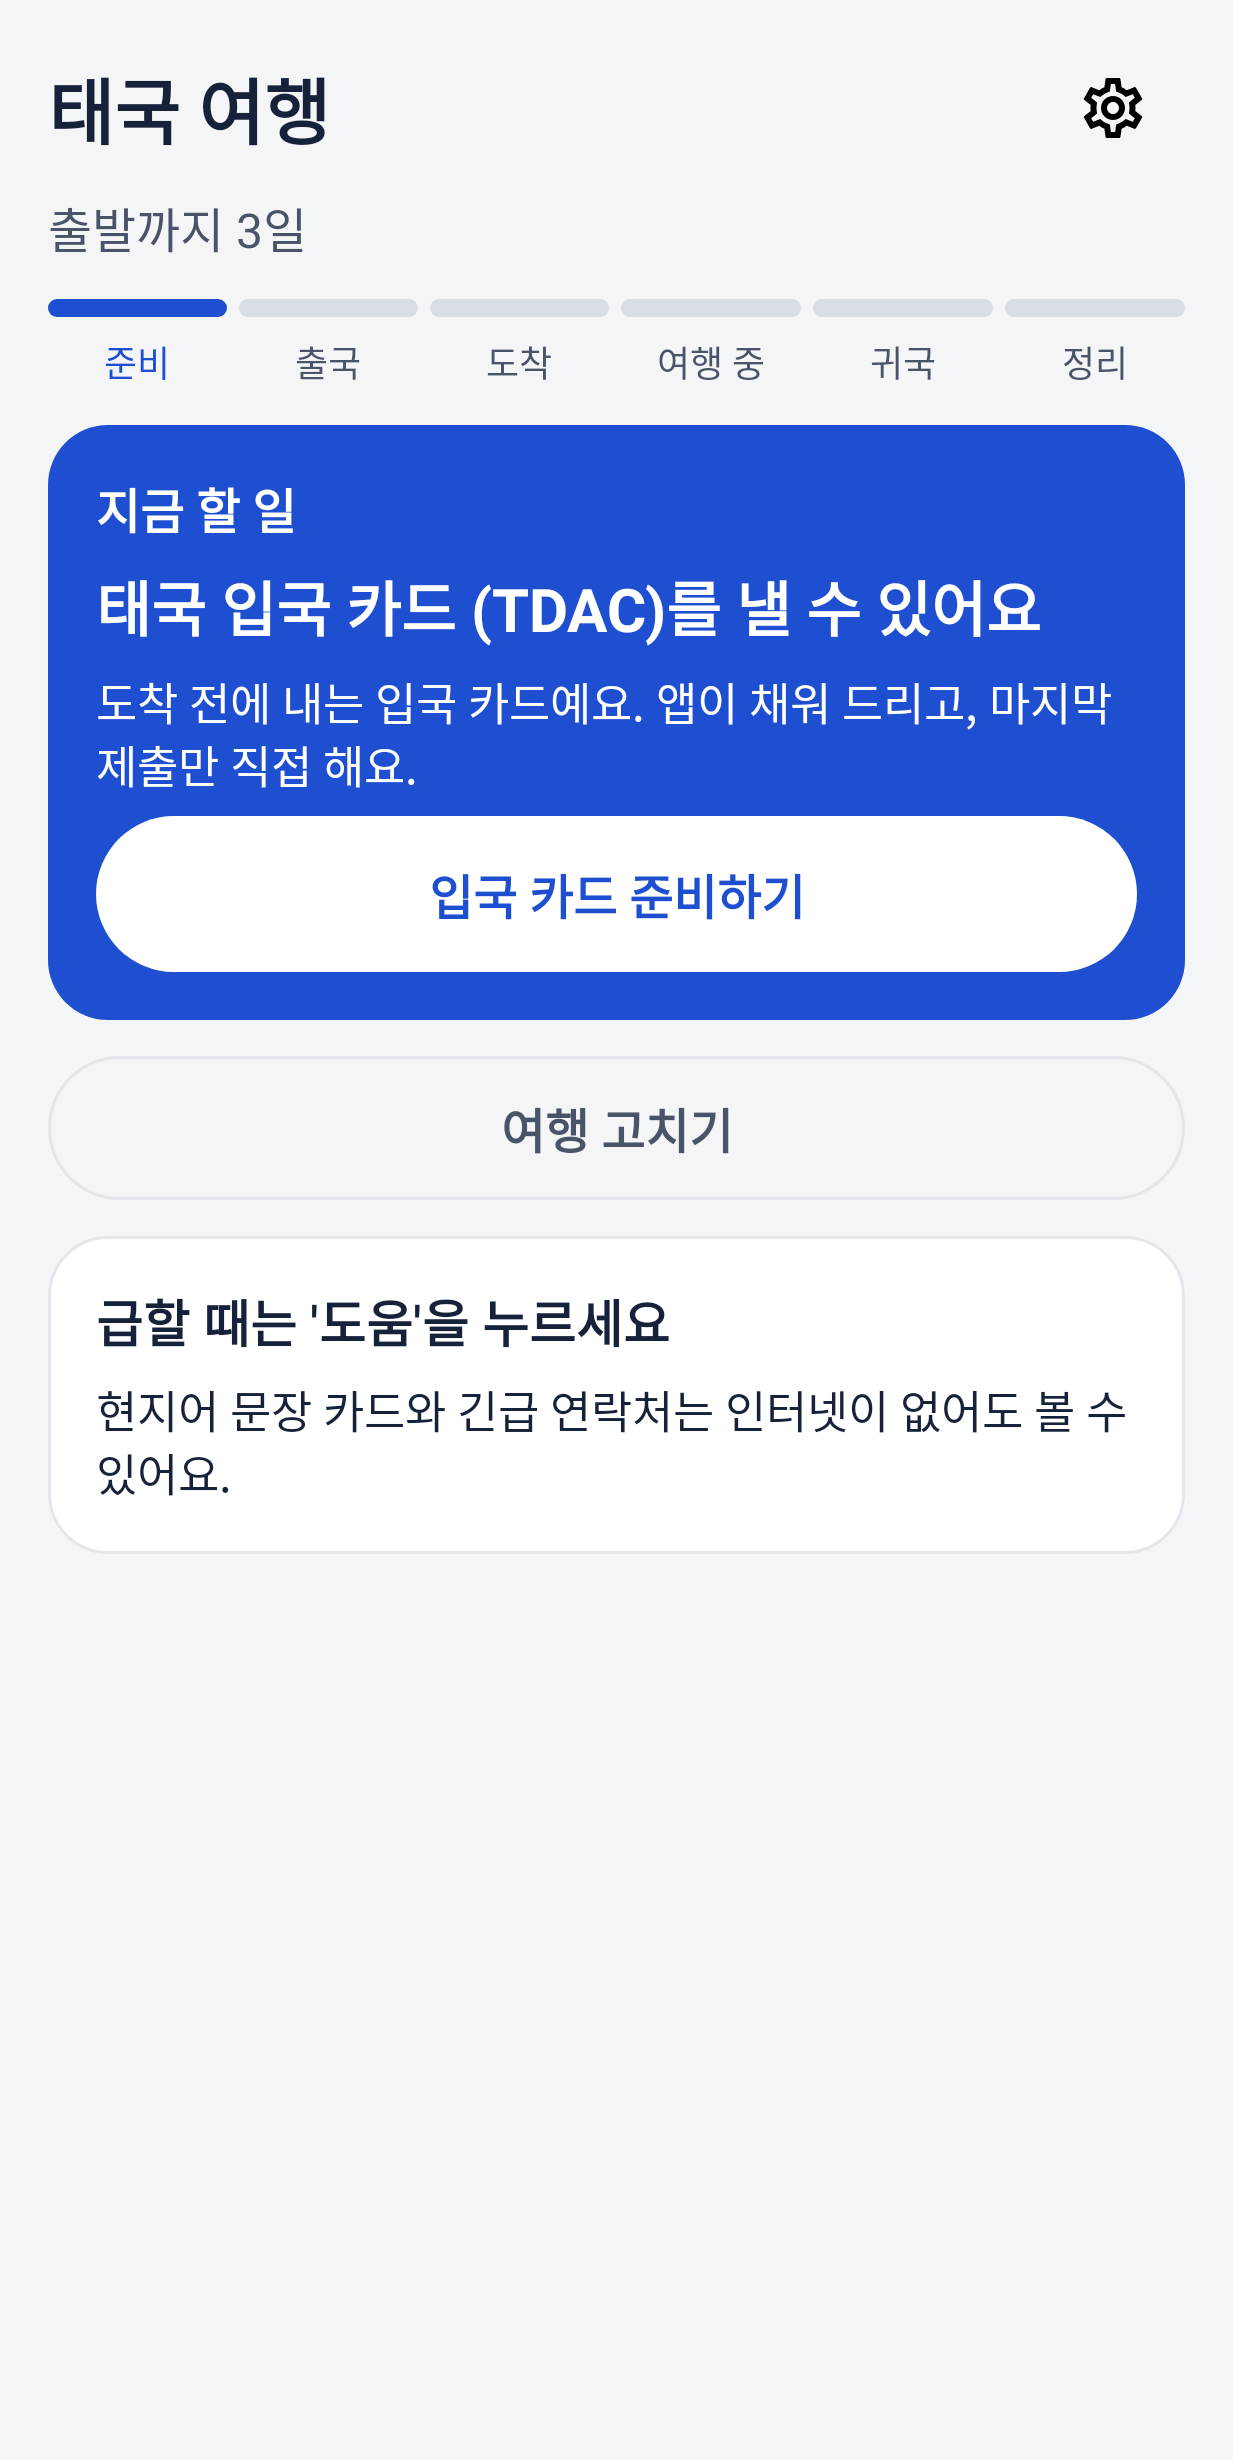
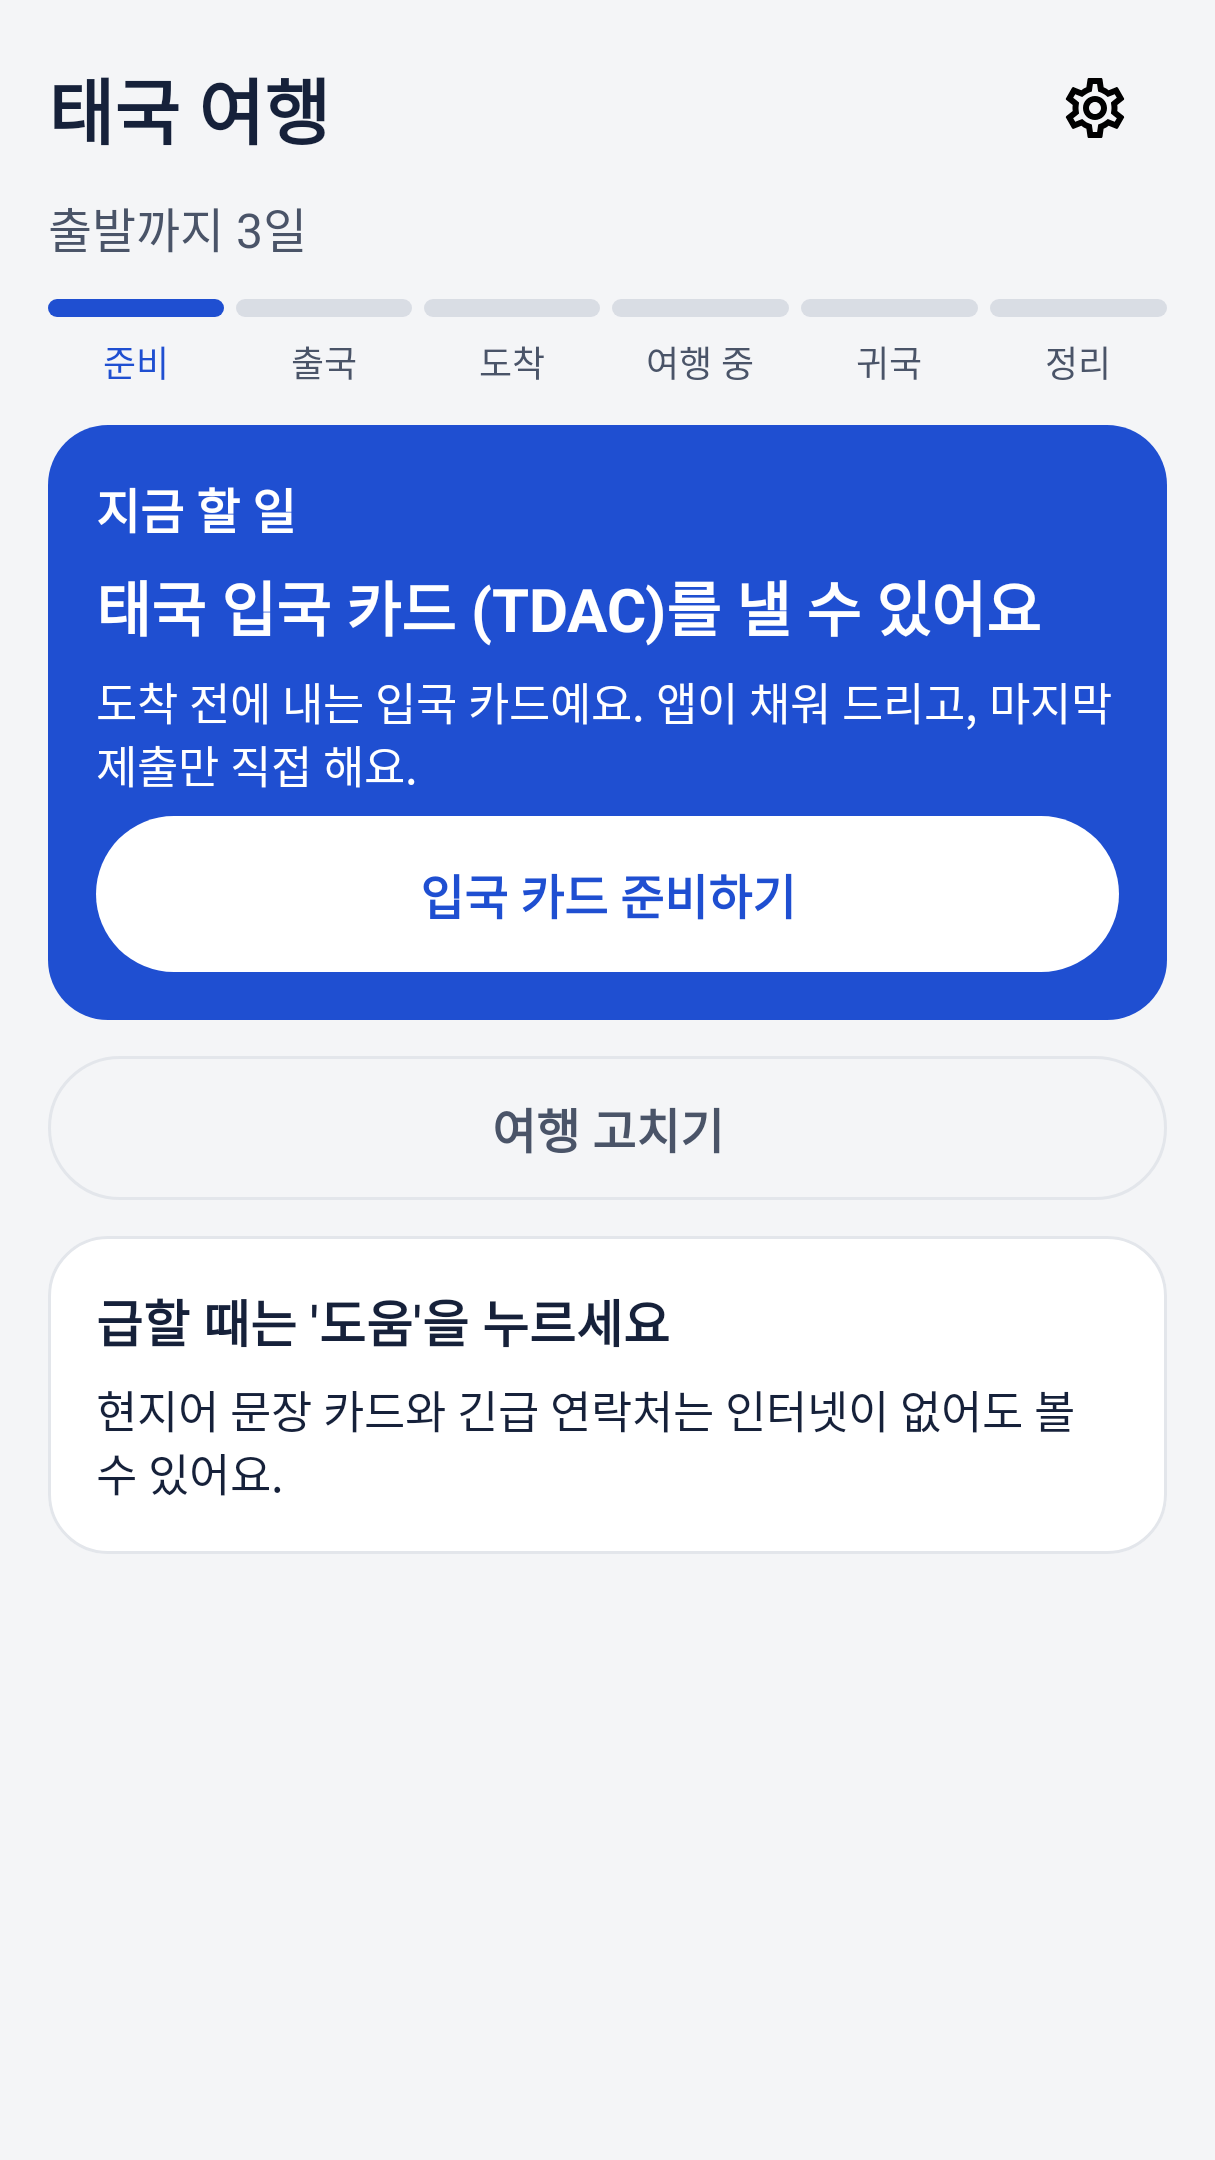
ML Kit 글자 인식을 Play 서비스 모델로 전환 (AAB 28MB → 9MB), 스토어 스크린숏 9:16
- play-services-mlkit-text-recognition(+korean): 모델을 앱에 싣지 않는다
- 매니페스트 DEPENDENCIES=ocr,ocr_korean(설치 때 받기) + 앱 시작 때 ModuleInstall로 한 번 더 요청
  → 여행지에서 인터넷 없이도 촬영 가능
- 실기기(S10 5G)에서 한국어 예약 서류 이미지 OCR 확인: 예약번호·편명·날짜 추출 정상
- Play 콘솔 규칙(16:9 또는 9:16)에 맞춰 스크린숏 1215×2160으로 다시 생성
- 테스트 133개·lint 통과

diff --git a/app/src/main/java/com/readyport/doc/ocr/OcrEngine.kt b/app/src/main/java/com/readyport/doc/ocr/OcrEngine.kt
@@ -7,6 +7,8 @@ import android.graphics.pdf.PdfRenderer
 import android.net.Uri
 import android.os.Build
 import android.provider.MediaStore
+import com.google.android.gms.common.moduleinstall.ModuleInstall
+import com.google.android.gms.common.moduleinstall.ModuleInstallRequest
 import com.google.android.gms.tasks.Task
 import com.google.mlkit.vision.common.InputImage
 import com.google.mlkit.vision.text.TextRecognition
@@ -24,7 +26,8 @@ import kotlin.coroutines.resumeWithException
 import androidx.core.graphics.createBitmap
 
 /**
- * 기기 안 글자 인식 (ML Kit Text Recognition v2 번들형, PRD 7.2).
+ * 기기 안 글자 인식 (ML Kit Text Recognition v2, PRD 7.2). 모델은 앱에 싣지 않고 Play 서비스가 받아 둔다
+ * (매니페스트 DEPENDENCIES로 설치 때, 그리고 [prefetch]로 앱 시작 때 한 번 더 요청). 인식은 기기 안에서만 한다.
  * 이미지는 메모리에서만 다루고 파일로 저장하지 않는다. 다 쓴 비트맵은 바로 recycle 한다.
  */
 @Singleton
@@ -36,6 +39,17 @@ class OcrEngine @Inject constructor(
 
     /** 예약 서류(한글+영문)용. 한국어 인식기는 라틴 문자도 읽는다 */
     private val korean: TextRecognizer by lazy { TextRecognition.getClient(KoreanTextRecognizerOptions.Builder().build()) }
+
+    /**
+     * 글자 인식 모델을 미리 받아 둔다 (이미 있으면 바로 끝남). 인터넷이 될 때 앱 시작에서 부른다 —
+     * 여행지에서 인터넷 없이 여권을 찍어도 되도록. 실패해도 조용히 넘어간다(다음 실행 때 다시 시도).
+     */
+    fun prefetch() {
+        runCatching {
+            val request = ModuleInstallRequest.newBuilder().addApi(latin).addApi(korean).build()
+            ModuleInstall.getClient(context).installModules(request)
+        }
+    }
 
     suspend fun recognize(bitmap: Bitmap, koreanText: Boolean): String {
         val recognizer = if (koreanText) korean else latin

diff --git a/app/src/test/java/com/readyport/ui/StoreAssetsTest.kt b/app/src/test/java/com/readyport/ui/StoreAssetsTest.kt
@@ -70,7 +70,7 @@ import java.time.LocalDate
 /**
  * Play 스토어 등록 이미지 (M10). **가짜 값만** 쓴다 — 여권은 ICAO 표본(ERIKSSON ANNA MARIA).
  * 결과: app/build/store/ (커밋은 docs/play/store/ 로 복사)
- * - 스크린숏: 1233×2460 (Play 규칙: 긴 변이 짧은 변의 2배 이하, 320~3840px)
+ * - 스크린숏: 1215×2160 = 정확히 9:16 (Play 콘솔 규칙: 16:9 또는 9:16, 320~3840px)
  */
 private fun Bitmap.saveTo(name: String): File {
     val dir = File("build/store").apply { mkdirs() }
@@ -79,7 +79,7 @@ private fun Bitmap.saveTo(name: String): File {
 
 @RunWith(AndroidJUnit4::class)
 @GraphicsMode(GraphicsMode.Mode.NATIVE)
-@Config(application = Application::class, sdk = [36], qualifiers = "w411dp-h820dp-xxhdpi")
+@Config(application = Application::class, sdk = [36], qualifiers = "w405dp-h720dp-xxhdpi")
 class StoreScreenshotsTest {
 
     @get:Rule
@@ -152,7 +152,7 @@ class StoreScreenshotsTest {
             val bmp = rule.onRoot().captureToImage().asAndroidBitmap()
             val long = maxOf(bmp.width, bmp.height).toDouble()
             val short = minOf(bmp.width, bmp.height).toDouble()
-            assertTrue("Play 비율 규칙(2:1 이하) 위반: ${bmp.width}x${bmp.height}", long / short <= 2.0 && short >= 320 && long <= 3840)
+            assertTrue("Play 비율 규칙(9:16) 위반: ${bmp.width}x${bmp.height}", bmp.width * 16 == bmp.height * 9 && short >= 320 && long <= 3840)
             bmp.saveTo("screenshot_$name.png")
         }
     }

diff --git a/app/src/main/java/com/readyport/ReadyPortApp.kt b/app/src/main/java/com/readyport/ReadyPortApp.kt
@@ -28,6 +28,7 @@ class ReadyPortApp : Application(), Configuration.Provider {
     @Inject lateinit var settings: SettingsRepository
     @Inject lateinit var workerFactory: HiltWorkerFactory
     @Inject lateinit var trips: TripRepository
+    @Inject lateinit var ocr: com.readyport.doc.ocr.OcrEngine
 
     private val appScope = CoroutineScope(SupervisorJob() + Dispatchers.Default)
 
@@ -38,6 +39,8 @@ class ReadyPortApp : Application(), Configuration.Provider {
         super.onCreate()
         // Firestore·FCM 요청에 App Check 토큰을 붙인다 (강제 여부는 콘솔에서)
         AppCheckInstaller.install(this)
+        // 글자 인식 모델(Play 서비스) 미리 받기 — 없을 때만 내려받는다
+        appScope.launch { ocr.prefetch() }
         // 앱이 화면에서 사라지면 지갑을 잠가 복호화한 내용을 메모리에서 지운다 (PRD 7.3)
         ProcessLifecycleOwner.get().lifecycle.addObserver(object : DefaultLifecycleObserver {
             override fun onStop(owner: LifecycleOwner) = wallet.lock()

diff --git a/docs/play/STORE_LISTING_KO.md b/docs/play/STORE_LISTING_KO.md
@@ -49,6 +49,6 @@
 ## 그래픽·스크린숏 (2026-09-29 생성)
 `docs/play/store/` — `StoreAssetsTest`(Robolectric)가 실제 앱 화면을 **가짜 값**(ICAO 표본 여권 ERIKSSON ANNA MARIA)으로 그린 것. 다시 만들기: `gradlew :app:testDebugUnitTest --tests "com.readyport.ui.Store*"` → `app/build/store/`.
 - `feature_graphic_1024x500.png` — 그래픽 이미지(필수). 비제휴 문구 포함, 정부 연상 요소 없음
-- `screenshot_01~06_*.png` — 휴대전화 스크린숏 1233×2460(Play 비율 2:1 이하): 오늘 · 입국 카드 3개 국어 확인 · 지갑(가려진 여권) · 도움 · 꼭 챙길 물건 · 이동하기
+- `screenshot_01~06_*.png` — 휴대전화 스크린숏 1215×2160(정확히 9:16 — Play 콘솔 요구): 오늘 · 입국 카드 3개 국어 확인 · 지갑(가려진 여권) · 도움 · 꼭 챙길 물건 · 이동하기
 - 앱 아이콘 512: `design/icons/play-store/readyport_play_512.png`
 - 태국어 문장이 들어 있어 원어민 검수(C10) 뒤 다시 만들 것

diff --git a/docs/HUMAN_TASKS.md b/docs/HUMAN_TASKS.md
@@ -35,4 +35,4 @@
 - C15 Visit Japan Web: 운영자가 폰에서 로그인한 상태로 열어 주면 Claude가 구조만 읽어 레시피를 만든다
 - C22 Firestore 위치 nam5 → 서울로 옮기기(비어 있을 때)
 - C24 개발 폰이 만든 `favorite_counts/TH`(1) 지우기
-- 앱 크기: 출시 APK 47MB/AAB 28MB — 대부분 ML Kit 글자 인식 모델(라틴·한국어 번들). Play 서비스로 모델을 받는 방식으로 바꾸면 줄지만 첫 촬영 때 내려받기가 필요 → 결정 필요
+- ✅ 앱 크기(2026-09-29): ML Kit를 Play 서비스 모델로 바꿔 AAB 28→9MB. 모델은 설치 때(매니페스트 DEPENDENCIES)와 앱 시작 때(ModuleInstall) 받아 오프라인 촬영 유지. 실기기 한국어 OCR 확인
